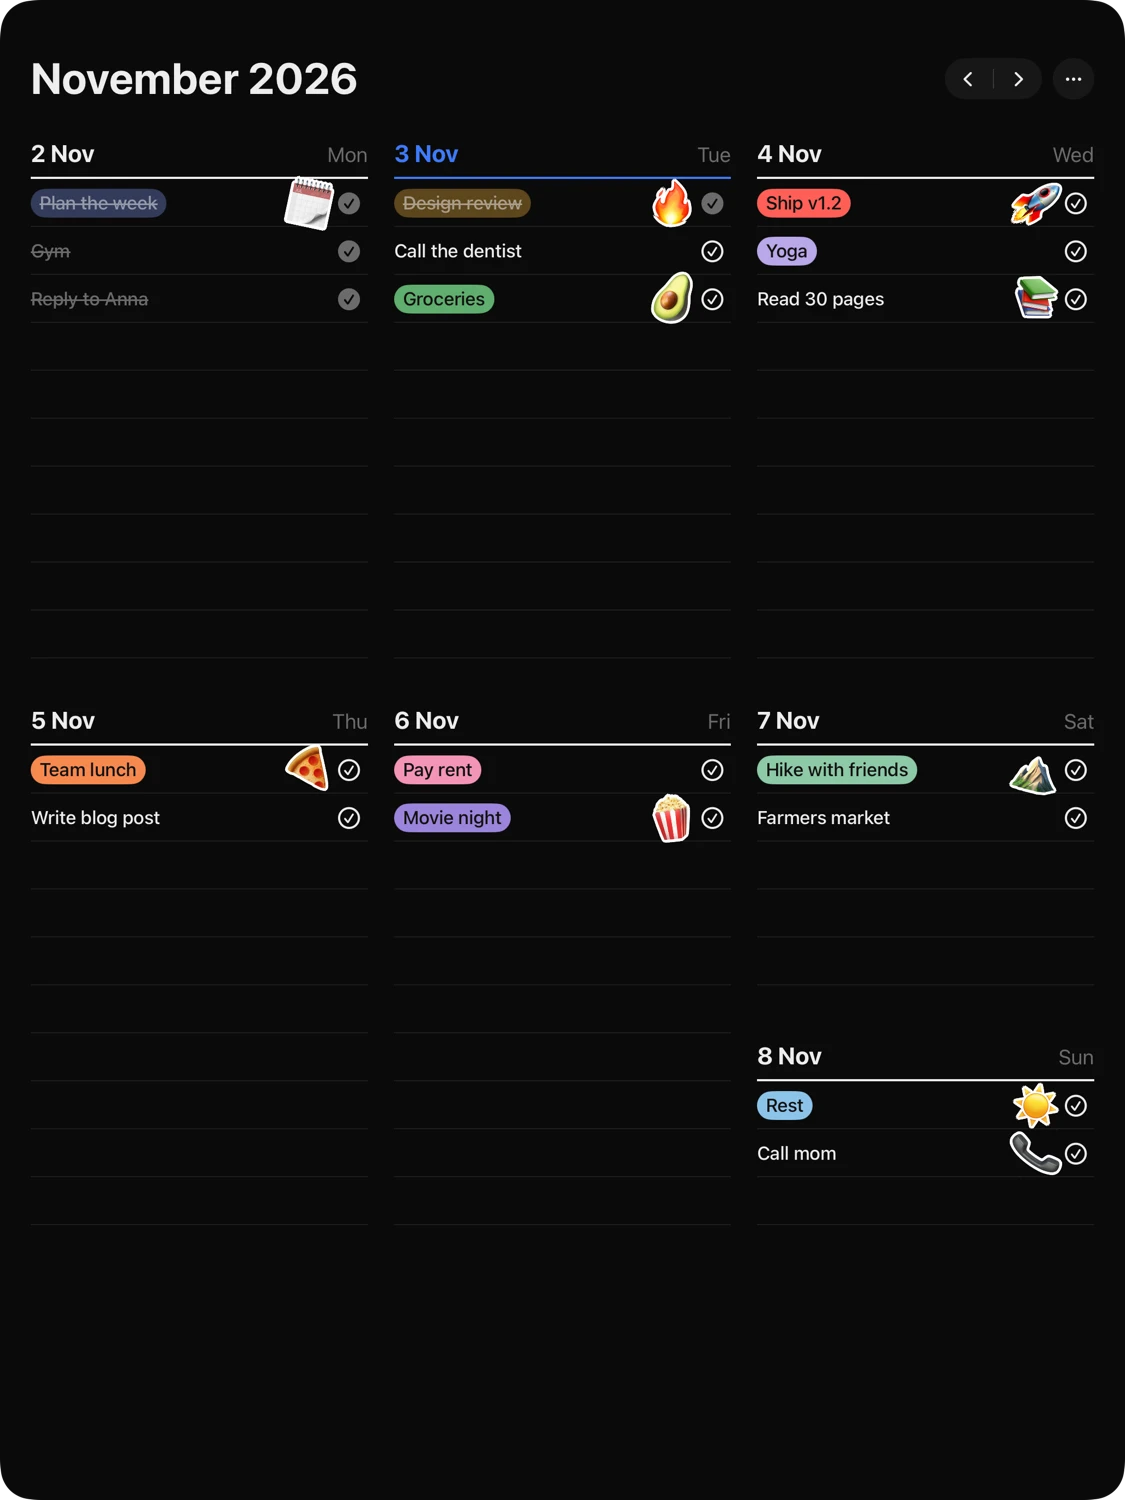
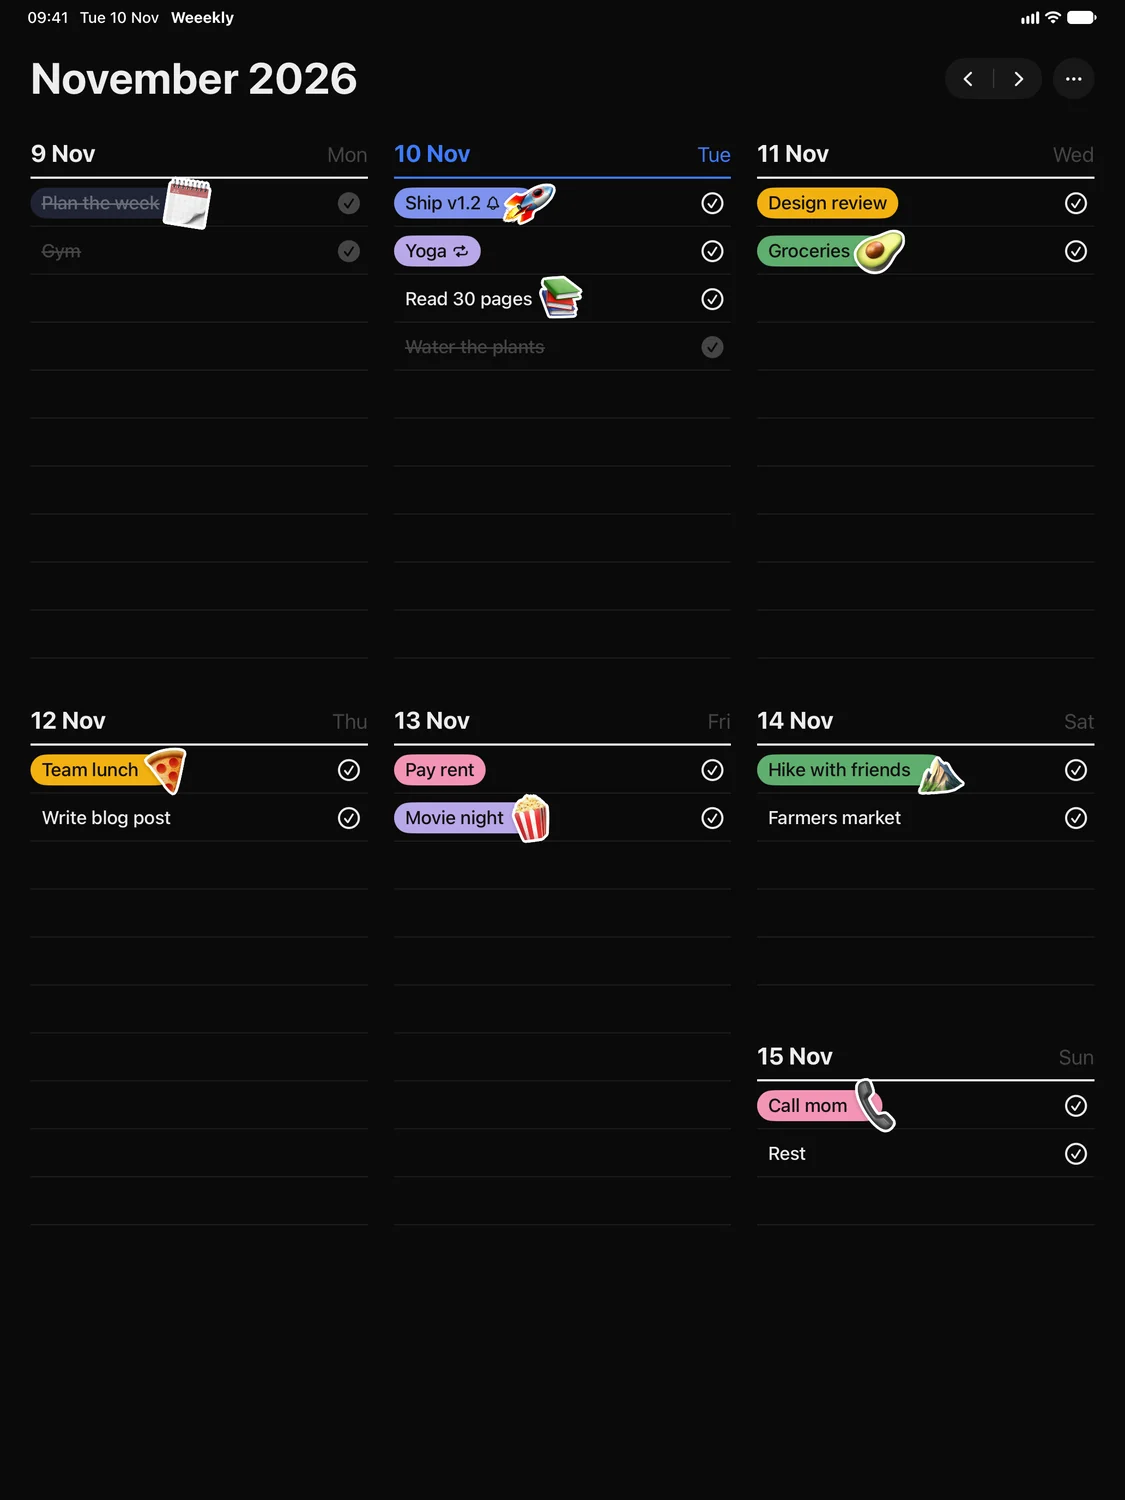
Meadow theme on the site: Meadow screenshots by default, three-way theme switch; full-window Mac shots; dates moved to Tue 10 Nov

diff --git a/index.html b/index.html
@@ -71,17 +71,17 @@
     <section class="showcase" aria-label="Weeekly on the Mac">
         <div class="window-frame">
             <div class="mac-window">
-                <div class="mac-titlebar" aria-hidden="true">
-                    <span></span><span></span><span></span>
-                </div>
-                <img class="shot t-light" src="assets/mac-light.webp" width="3000" height="1504"
-                     alt="Weeekly on the Mac: seven day columns with colorful task pills and emoji stickers, Warm Light theme">
-                <img class="shot t-dark" src="assets/mac-dark.webp" width="3000" height="1504"
+                <img class="shot t-meadow" src="assets/mac-meadow.webp" width="3000" height="1560"
+                     alt="Weeekly on the Mac: seven day columns with colorful task pills and emoji stickers under a painted sky, Meadow theme">
+                <img class="shot t-light" src="assets/mac-light.webp" width="3000" height="1560"
+                     alt="Weeekly on the Mac in the Warm Light theme" loading="lazy">
+                <img class="shot t-dark" src="assets/mac-dark.webp" width="3000" height="1560"
                      alt="Weeekly on the Mac in the Dark theme" loading="lazy">
             </div>
         </div>
         <div class="theme-switch reveal" role="group" aria-label="App theme">
-            <button type="button" class="is-active" data-set-theme="light" aria-pressed="true" aria-label="Warm Light" title="Warm Light"><svg viewBox="0 0 24 24" aria-hidden="true"><circle cx="12" cy="12" r="4.2"/><path d="M12 2.5v2M12 19.5v2M2.5 12h2M19.5 12h2M5.3 5.3l1.4 1.4M17.3 17.3l1.4 1.4M5.3 18.7l1.4-1.4M17.3 6.7l1.4-1.4"/></svg></button>
+            <button type="button" class="is-active" data-set-theme="meadow" aria-pressed="true" aria-label="Meadow" title="Meadow"><svg viewBox="0 0 24 24" aria-hidden="true"><path d="M17.5 19H7a5 5 0 1 1 1.1-9.9A6 6 0 0 1 19.6 11a4 4 0 0 1-2.1 8z"/></svg></button>
+            <button type="button" data-set-theme="light" aria-pressed="false" aria-label="Warm Light" title="Warm Light"><svg viewBox="0 0 24 24" aria-hidden="true"><circle cx="12" cy="12" r="4.2"/><path d="M12 2.5v2M12 19.5v2M2.5 12h2M19.5 12h2M5.3 5.3l1.4 1.4M17.3 17.3l1.4 1.4M5.3 18.7l1.4-1.4M17.3 6.7l1.4-1.4"/></svg></button>
             <button type="button" data-set-theme="dark" aria-pressed="false" aria-label="Dark" title="Dark"><svg viewBox="0 0 24 24" aria-hidden="true"><path d="M20 14.5A8 8 0 0 1 9.5 4a8 8 0 1 0 10.5 10.5z"/></svg></button>
         </div>
     </section>
@@ -191,7 +191,8 @@
         </div>
 
         <div class="theme-switch reveal" role="group" aria-label="App theme">
-            <button type="button" class="is-active" data-set-theme="light" aria-pressed="true" aria-label="Warm Light" title="Warm Light"><svg viewBox="0 0 24 24" aria-hidden="true"><circle cx="12" cy="12" r="4.2"/><path d="M12 2.5v2M12 19.5v2M2.5 12h2M19.5 12h2M5.3 5.3l1.4 1.4M17.3 17.3l1.4 1.4M5.3 18.7l1.4-1.4M17.3 6.7l1.4-1.4"/></svg></button>
+            <button type="button" class="is-active" data-set-theme="meadow" aria-pressed="true" aria-label="Meadow" title="Meadow"><svg viewBox="0 0 24 24" aria-hidden="true"><path d="M17.5 19H7a5 5 0 1 1 1.1-9.9A6 6 0 0 1 19.6 11a4 4 0 0 1-2.1 8z"/></svg></button>
+            <button type="button" data-set-theme="light" aria-pressed="false" aria-label="Warm Light" title="Warm Light"><svg viewBox="0 0 24 24" aria-hidden="true"><circle cx="12" cy="12" r="4.2"/><path d="M12 2.5v2M12 19.5v2M2.5 12h2M19.5 12h2M5.3 5.3l1.4 1.4M17.3 17.3l1.4 1.4M5.3 18.7l1.4-1.4M17.3 6.7l1.4-1.4"/></svg></button>
             <button type="button" data-set-theme="dark" aria-pressed="false" aria-label="Dark" title="Dark"><svg viewBox="0 0 24 24" aria-hidden="true"><path d="M20 14.5A8 8 0 0 1 9.5 4a8 8 0 1 0 10.5 10.5z"/></svg></button>
         </div>
 
@@ -214,14 +215,14 @@
                                     <svg viewBox="0 0 24 24"><path d="M12 18.5a1.5 1.5 0 1 0 0 .01M8.5 15a5 5 0 0 1 7 0M5.2 11.7a9.6 9.6 0 0 1 13.6 0M2 8.5a14 14 0 0 1 20 0" fill="none" stroke="currentColor" stroke-width="2" stroke-linecap="round"/></svg>
                                     <svg viewBox="0 0 28 14"><rect x="1" y="1" width="23" height="12" rx="3.5" fill="none" stroke="currentColor" stroke-width="1.5" opacity=".7"/><rect x="3" y="3" width="16" height="8" rx="2" fill="currentColor"/><path d="M26 5v4" stroke="currentColor" stroke-width="1.5" stroke-linecap="round" opacity=".7"/></svg>
                                     <svg viewBox="0 0 24 24"><circle cx="10.5" cy="10.5" r="6.5" fill="none" stroke="currentColor" stroke-width="2"/><path d="M15.5 15.5 21 21" stroke="currentColor" stroke-width="2" stroke-linecap="round"/></svg>
-                                    <span>Tue 3 Nov&nbsp;&nbsp;9:41</span>
+                                    <span>Tue 10 Nov&nbsp;&nbsp;9:41</span>
                                 </div>
                             </div>
                             <div class="mac-window">
-                                <div class="mac-titlebar" aria-hidden="true"><span></span><span></span><span></span></div>
-                                <img class="shot t-light" src="assets/mac-light.webp" width="3000" height="1504" loading="lazy"
+                                <img class="shot t-meadow" src="assets/mac-meadow.webp" width="3000" height="1560" loading="lazy"
                                      alt="Weeekly in a window on the macOS desktop: the whole week in seven columns">
-                                <img class="shot t-dark" src="assets/mac-dark.webp" width="3000" height="1504" loading="lazy" alt="">
+                                <img class="shot t-light" src="assets/mac-light.webp" width="3000" height="1560" loading="lazy" alt="">
+                                <img class="shot t-dark" src="assets/mac-dark.webp" width="3000" height="1560" loading="lazy" alt="">
                             </div>
                         </div>
                     </div>
@@ -232,8 +233,9 @@
             <!-- iPad Pro, portrait -->
             <figure class="lu lu-ipad" data-device="ipad">
                 <div class="ipad-body">
-                    <img class="t-light" src="assets/ipad-portrait-light.webp" width="1125" height="1500" loading="lazy"
+                    <img class="t-meadow" src="assets/ipad-portrait-meadow.webp" width="1125" height="1500" loading="lazy"
                          alt="Weeekly on iPad in portrait: the whole week in two rows of days">
+                    <img class="t-light" src="assets/ipad-portrait-light.webp" width="1125" height="1500" loading="lazy" alt="">
                     <img class="t-dark" src="assets/ipad-portrait-dark.webp" width="1125" height="1500" loading="lazy" alt="">
                 </div>
             </figure>
@@ -241,9 +243,10 @@
             <!-- iPhone: the screenshot already includes the Dynamic Island -->
             <figure class="lu lu-iphone" data-device="iphone">
                 <div class="iphone-body">
-                    <img class="t-light" src="assets/iphone-light.webp" width="689" height="1500" loading="lazy"
+                    <img class="t-meadow" src="assets/iphone-meadow.webp" width="690" height="1500" loading="lazy"
                          alt="Weeekly on iPhone: today and the next days in a scrolling list">
-                    <img class="t-dark" src="assets/iphone.webp" width="689" height="1500" loading="lazy" alt="">
+                    <img class="t-light" src="assets/iphone-light.webp" width="690" height="1500" loading="lazy" alt="">
+                    <img class="t-dark" src="assets/iphone.webp" width="690" height="1500" loading="lazy" alt="">
                 </div>
             </figure>
 
@@ -256,7 +259,7 @@
                     <div class="watch-button"></div>
                     <div class="watch-case">
                         <div class="watch-screen">
-                            <div class="watch-head"><span class="watch-day">Tue 3</span><span class="watch-time">9:41</span></div>
+                            <div class="watch-head"><span class="watch-day">Tue 10</span><span class="watch-time">9:41</span></div>
                             <div class="watch-task"><span class="watch-check"></span><span class="pill" style="--c:#F3B111">Design review</span></div>
                             <div class="watch-task"><span class="watch-check"></span>Call the dentist</div>
                             <div class="watch-task"><span class="watch-check"></span><span class="pill" style="--c:#5FAE6E">Groceries</span></div>

diff --git a/styles.css b/styles.css
@@ -193,22 +193,16 @@ h3 { font-size: 1.3rem; font-weight: 650; margin-bottom: .4rem; }
     z-index: 1;
     border-radius: 1.4cqw;
     overflow: hidden;
-    background: var(--paper);
     box-shadow: 0 3cqw 6cqw -1.5cqw rgba(10, 20, 50, .55), 0 0 0 1px rgba(0, 0, 0, .18);
-    transition: background-color .4s ease;
 }
-.mac-titlebar { display: flex; gap: .7cqw; padding: 1.2cqw 1.4cqw .4cqw; }
-.mac-titlebar span { width: 1.05cqw; height: 1.05cqw; border-radius: 50%; background: #FF5F57; box-shadow: inset 0 0 0 1px rgba(0, 0, 0, .12); }
-.mac-titlebar span:nth-child(2) { background: #FEBC2E; }
-.mac-titlebar span:nth-child(3) { background: #28C840; }
-.shot { width: 100%; }
+/* The screenshots are whole windows, title bar and traffic lights included */
+.shot { display: block; width: 100%; }
 .window-frame .mac-window { box-shadow: 0 1.4cqw 3.5cqw -1.2cqw rgba(10, 20, 50, .28), 0 0 0 1px rgba(0, 0, 0, .1); }
 
-/* App theme shown in every screenshot: Warm Light by default, Dark when switched */
-.t-dark { display: none !important; }
-[data-app-theme="dark"] .t-dark { display: block !important; }
-[data-app-theme="dark"] .t-light { display: none !important; }
-[data-app-theme="dark"] .mac-window { background: var(--night); }
+/* App theme shown in every screenshot: Meadow by default, Warm Light or Dark when switched */
+.t-light, .t-dark { display: none !important; }
+[data-app-theme="light"] .t-light, [data-app-theme="dark"] .t-dark { display: block !important; }
+[data-app-theme="light"] .t-meadow, [data-app-theme="dark"] .t-meadow { display: none !important; }
 
 .theme-switch {
     display: flex;
@@ -237,6 +231,7 @@ h3 { font-size: 1.3rem; font-weight: 650; margin-bottom: .4rem; }
 .theme-switch button:not(.is-active):hover { color: var(--ink); }
 .theme-switch svg { width: 18px; height: 18px; fill: none; stroke: currentColor; stroke-width: 2.4; stroke-linecap: round; stroke-linejoin: round; }
 .theme-switch button[data-set-theme="dark"] svg { fill: currentColor; stroke: none; }
+.theme-switch button[data-set-theme="meadow"] svg { stroke-width: 2.2; }
 .theme-switch button.is-active { background: var(--ink); color: #fff; }
 
 /* Sections */

diff --git a/script.js b/script.js
@@ -34,7 +34,7 @@ const observer = new IntersectionObserver((entries) => {
 }, { threshold: 0.15, rootMargin: "0px 0px -40px 0px" });
 document.querySelectorAll(".reveal, .reveal-feature, .reveal-icon").forEach((el) => observer.observe(el));
 
-// Warm Light / Dark switch: changes the app theme in every screenshot on the page.
+// Meadow / Warm Light / Dark switch: changes the app theme in every screenshot on the page.
 const themeButtons = document.querySelectorAll("[data-set-theme]");
 themeButtons.forEach((button) => {
     button.addEventListener("click", () => {
